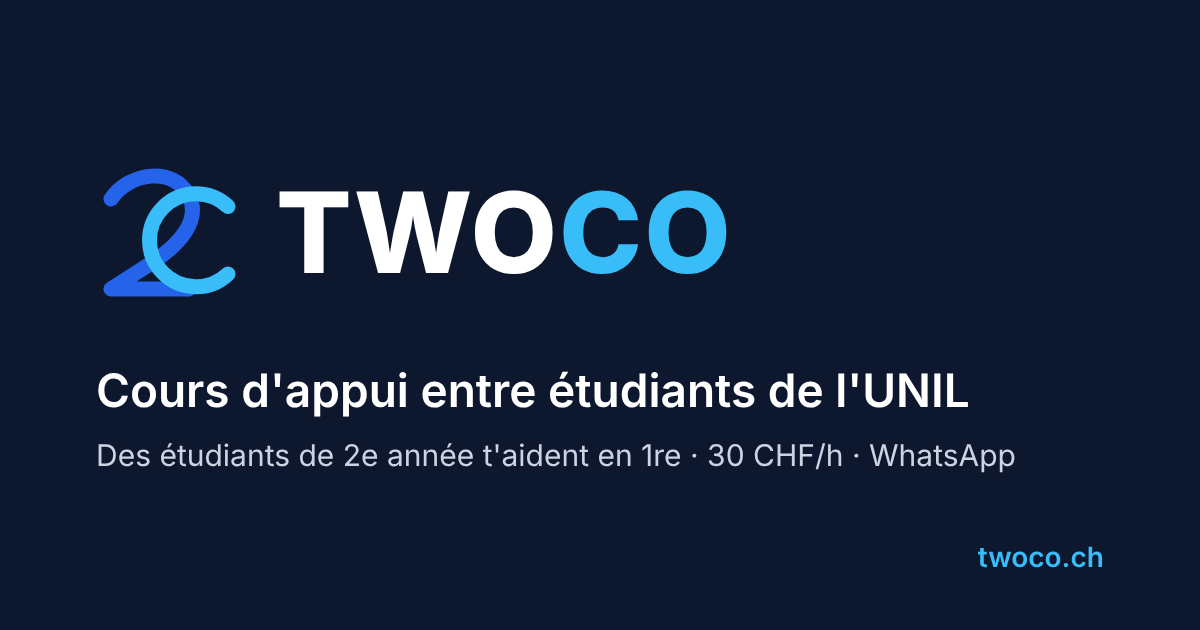
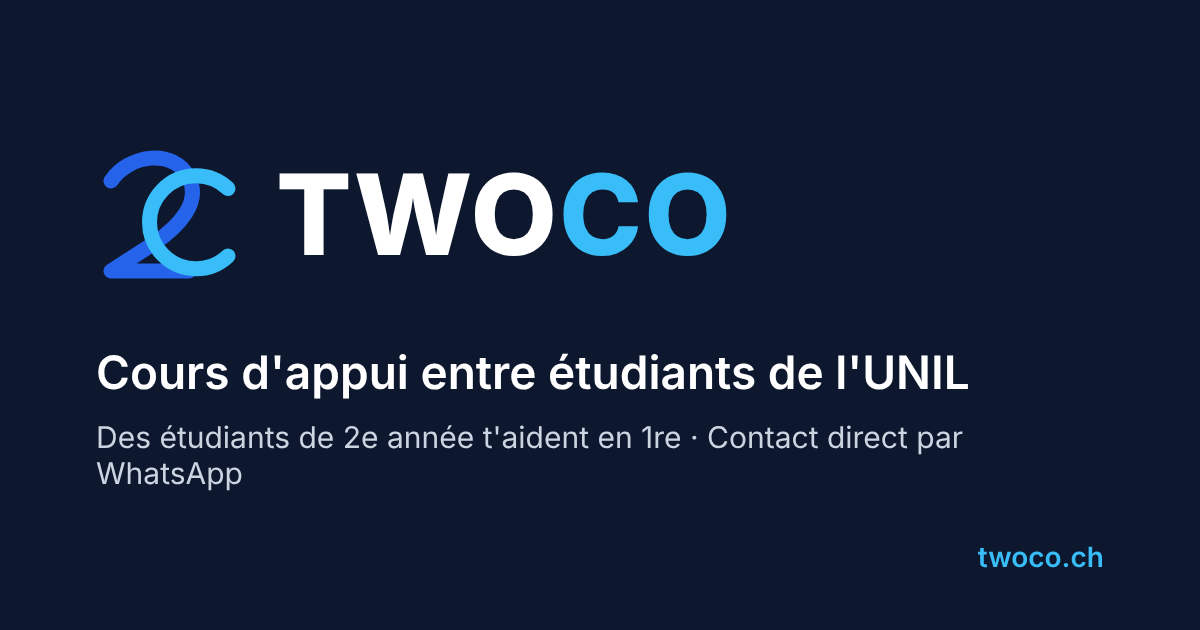
Point C : sans le prix dans la description et l'image d'aperçu
Claude-Session: https://claude.ai/code/session_01EGwHhEAryFHPHuFSPvXo18

Changed region(s): [[0.0617, 0.5429, 0.8633, 0.7841], [0.0617, 0.2413, 0.6167, 0.4825], [0.2467, 0.3921, 0.2775, 0.4524]]

diff --git a/index.html b/index.html
@@ -4,14 +4,14 @@
     <meta charset="UTF-8">
     <meta name="viewport" content="width=device-width, initial-scale=1.0">
     <title>Twoco – Cours d'appui entre étudiants de l'UNIL</title>
-    <meta name="description" content="Trouve un étudiant de 2e année qui t'aide dans tes matières de 1re année à l'UNIL. 30 CHF/h, contact direct par WhatsApp.">
+    <meta name="description" content="Trouve un étudiant de 2e année qui t'aide dans tes matières de 1re année à l'UNIL. Contact direct par WhatsApp.">
     <link rel="canonical" href="https://twoco.ch/">
     <meta property="og:type" content="website">
     <meta property="og:site_name" content="Twoco">
     <meta property="og:locale" content="fr_CH">
     <meta property="og:url" content="https://twoco.ch/">
     <meta property="og:title" content="Twoco – Cours d'appui entre étudiants de l'UNIL">
-    <meta property="og:description" content="Trouve un étudiant de 2e année qui t'aide dans tes matières de 1re année à l'UNIL. 30 CHF/h, contact direct par WhatsApp.">
+    <meta property="og:description" content="Trouve un étudiant de 2e année qui t'aide dans tes matières de 1re année à l'UNIL. Contact direct par WhatsApp.">
     <meta property="og:image" content="https://twoco.ch/apercu.png">
     <meta property="og:image:width" content="1200">
     <meta property="og:image:height" content="630">
